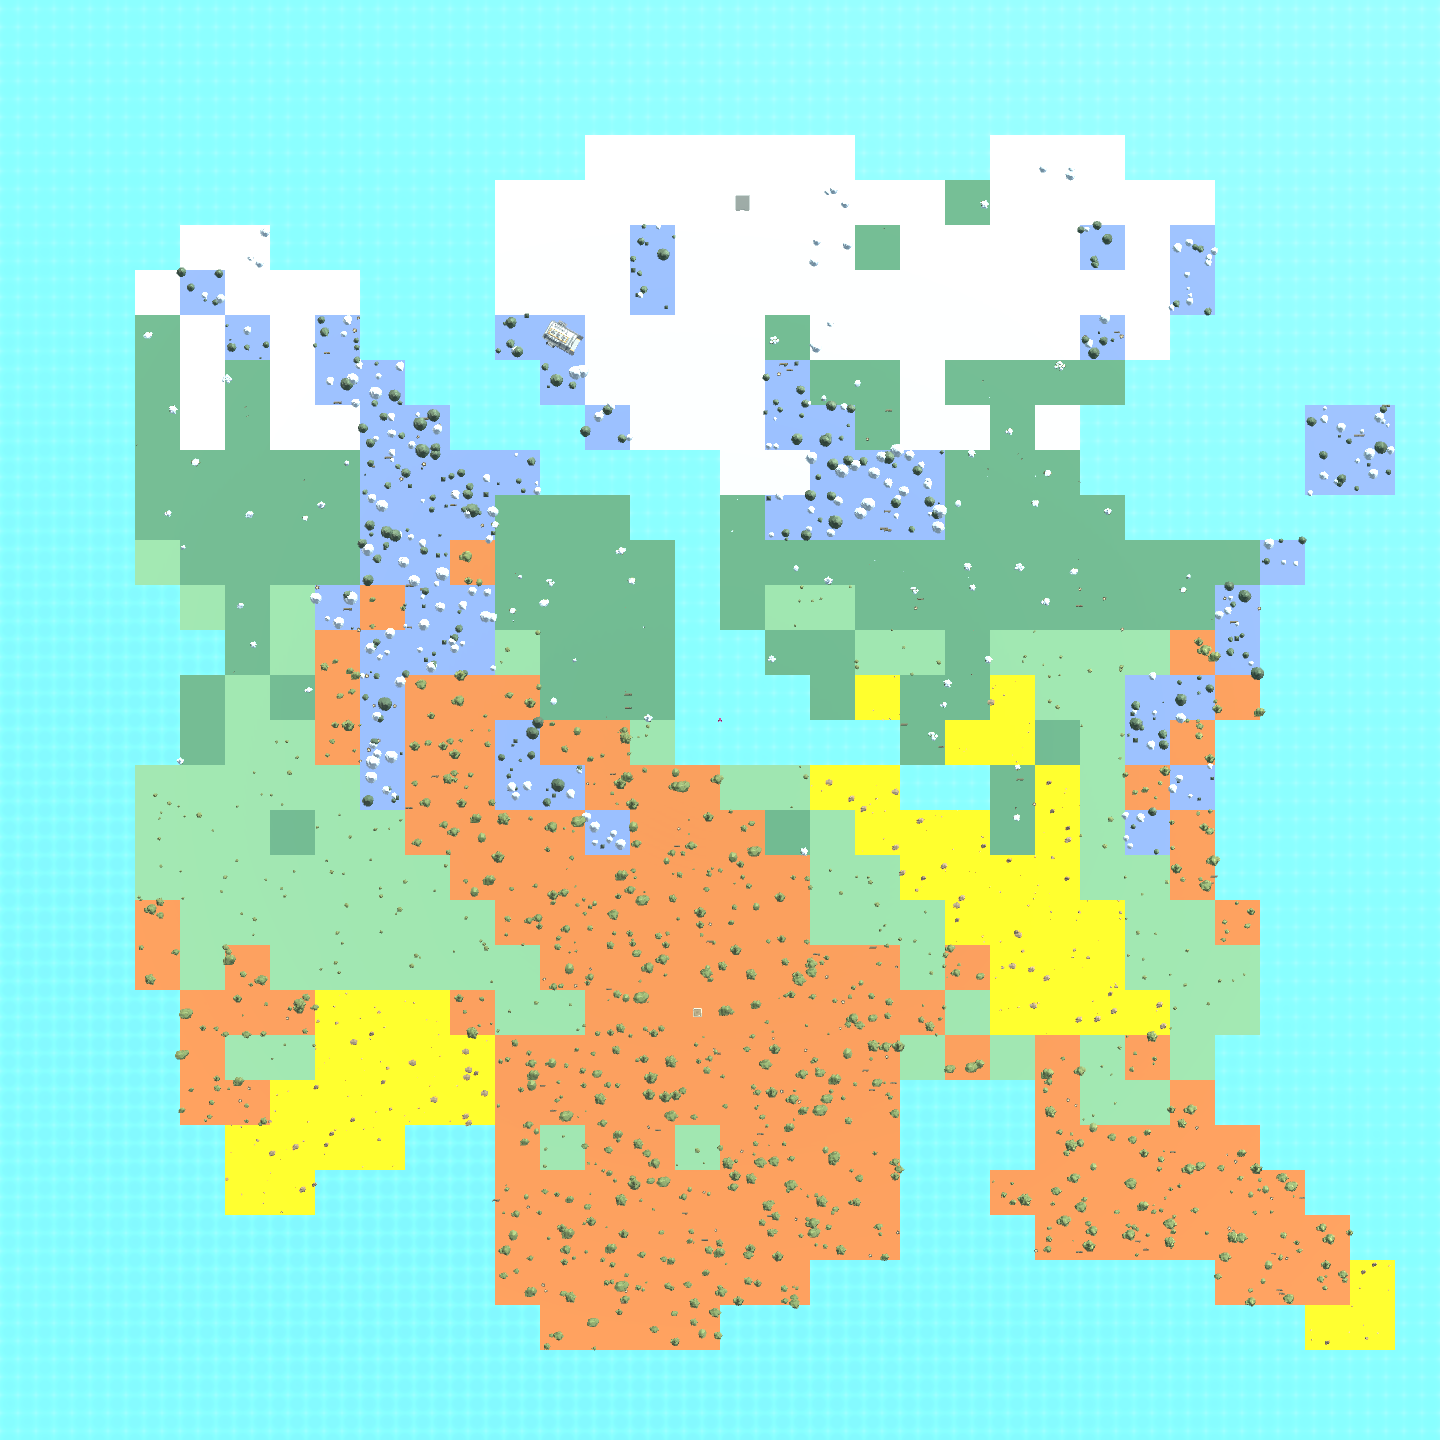
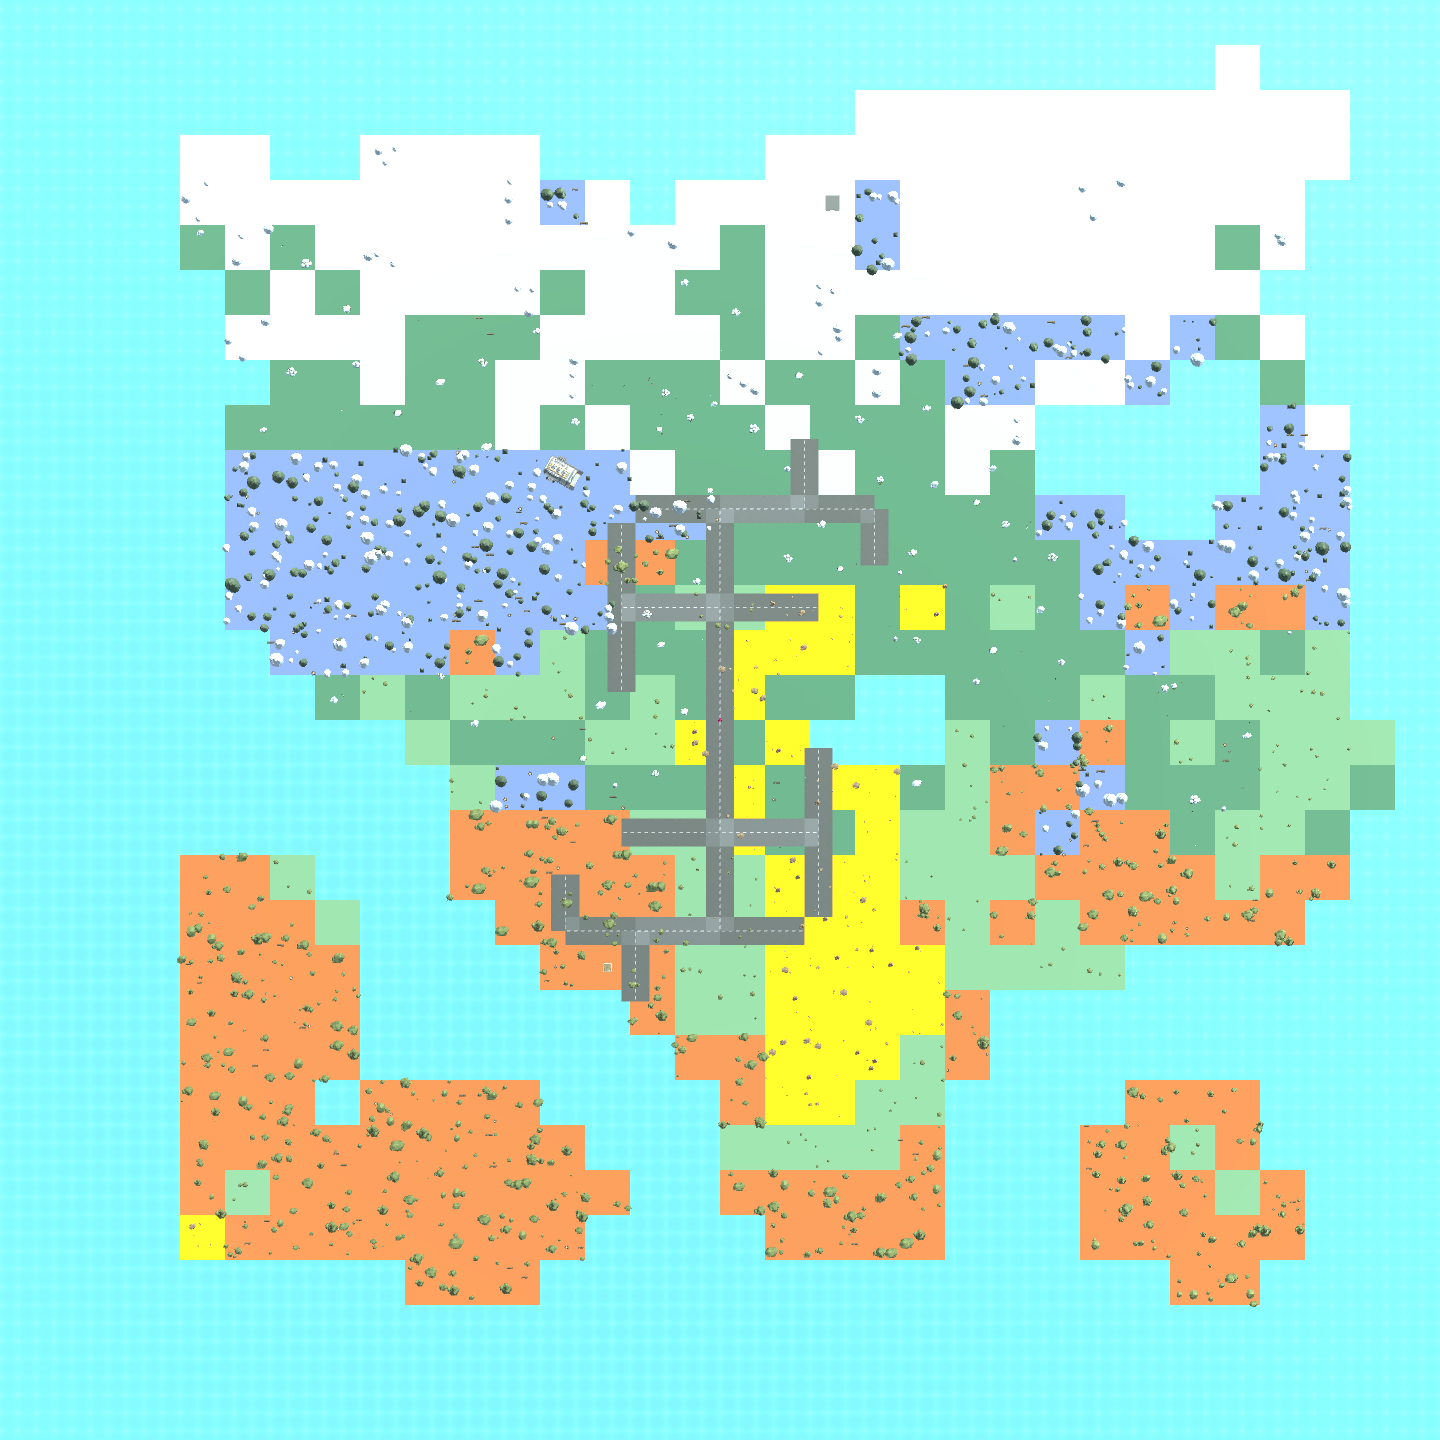
Town Generator (WIP)
L-system

diff --git a/Assets/Scripts/PCG/Generators/POIs/TownGenerator.cs b/Assets/Scripts/PCG/Generators/POIs/TownGenerator.cs
@@ -1,0 +1,79 @@
+using System.Collections.Generic;
+using UnityEngine;
+
+namespace PCG.Generators.POIs
+{
+    public class TownGenerator : MonoBehaviour
+    {
+        public LSystem lSystem;
+        public GameObject roadPrefab;
+        public GameObject buildingPrefab;
+        public int length = 4;
+
+        private void Start()
+        {
+            string sentence = lSystem.GenerateSentence();
+            Debug.Log("sentence: " + sentence);
+            GenerateTown(sentence);
+        }
+
+        private void GenerateTown(string sentence)
+        {
+            Stack<TransformInfo> transformStack = new Stack<TransformInfo>();
+            Vector3 position = new Vector3(0, 0.05f, 0);
+            Quaternion rotation = Quaternion.identity;
+
+            foreach (char c in sentence) {
+                switch (c) {
+                    case 'F':
+                        for (int i = 0; i < length; i++) {
+                            GameObject roadLeft = Instantiate(roadPrefab, position, rotation);
+                            roadLeft.transform.Translate(new Vector3(5, 0, 5));
+                            GameObject roadRight = Instantiate(roadPrefab, position, rotation);
+                            roadRight.transform.Translate(new Vector3(-5, 0, 0));
+                            roadRight.transform.Rotate(new Vector3(0, 180, 0));
+                            position += rotation * Vector3.forward * 5;
+                        }
+                        length -= 1;
+                        break;
+                    case '+':
+                        rotation *= Quaternion.Euler(0, lSystem.angle, 0);
+                        break;
+                    case '-':
+                        rotation *= Quaternion.Euler(0, -lSystem.angle, 0);
+                        break;
+                    case '[':
+                        // Save
+                        transformStack.Push(new TransformInfo {
+                            position = position,
+                            rotation = rotation,
+                            length = length
+                        });
+                        break;
+                    case ']':
+                        // Load
+                        if (transformStack.Count > 0) {
+                            TransformInfo ti = transformStack.Pop();
+                            position = ti.position;
+                            rotation = ti.rotation;
+                            length = ti.length;
+                        }
+                        break;
+                    case 'B':
+                        GameObject building = Instantiate(buildingPrefab);
+                        building.transform.position = position;
+                        break;
+                    default:
+                        break;
+                }
+            }
+        }
+
+        private struct TransformInfo
+        {
+            public Vector3 position;
+            public Quaternion rotation;
+            public int length;
+        }
+    }
+}

diff --git a/Assets/Scripts/PCG/Generators/POIs/LSystem.cs b/Assets/Scripts/PCG/Generators/POIs/LSystem.cs
@@ -1,0 +1,61 @@
+using System;
+using System.Collections.Generic;
+using System.Text;
+using UnityEngine;
+using Random = UnityEngine.Random;
+
+namespace PCG.Generators.POIs
+{
+    [CreateAssetMenu(fileName = "LSystem", menuName = "Procedural Generation/L-System")]
+    public class LSystem : ScriptableObject
+    {
+        public string axiom;
+        public List<Rule> rules;
+        public int iterations;
+        public float angle;
+
+        private Dictionary<char, List<string>> ruleDict;
+
+        private void InitializeRuleDict()
+        {
+            ruleDict = new Dictionary<char, List<string>>();
+            foreach (Rule rule in rules) {
+                ruleDict.Add(rule.symbol, rule.results);
+            }
+        }
+
+        public string GenerateSentence()
+        {
+            InitializeRuleDict();
+            return GenerateSentence(axiom, 0);
+        }
+
+        private string GenerateSentence(string current, int round)
+        {
+            if (round == iterations) {
+                return current;
+            }
+            round++;
+
+            StringBuilder sb = new StringBuilder();
+            foreach (char c in current) {
+                if (ruleDict.ContainsKey(c)) {
+                    List<string> possibleResults = ruleDict[c];
+                    string selectedResult = possibleResults[Random.Range(0, possibleResults.Count)];
+                    sb.Append(selectedResult);
+                } else {
+                    sb.Append(c);
+                }
+            }
+
+            return GenerateSentence(sb.ToString(), round);
+        }
+    }
+
+    [Serializable]
+    public class Rule
+    {
+        public char symbol;
+        public List<string> results;
+    }
+}

diff --git a/Assets/Scripts/PCG/Generators/LevelGenerator.cs b/Assets/Scripts/PCG/Generators/LevelGenerator.cs
@@ -3,13 +3,13 @@ using System.Collections;
 using System.Collections.Generic;
 using Entities.Ocean;
 using Gameplay;
-using PCG.Chunks;
+using PCG.Generators.Chunks;
 using Unity.AI.Navigation;
 using UnityEngine;
 using UnityEngine.Events;
 using Vector3 = UnityEngine.Vector3;
 
-namespace PCG
+namespace PCG.Generators
 {
     [Serializable]
     public class Biome

diff --git a/Assets/Scripts/PCG/Generators/ActorsPlacer.cs b/Assets/Scripts/PCG/Generators/ActorsPlacer.cs
@@ -4,11 +4,11 @@ using Gameplay.Quests;
 using Managers;
 using Managers.GameManager;
 using PCG.BiomeData;
-using PCG.Chunks;
+using PCG.Generators.Chunks;
 using UnityEngine;
 using UnityEngine.AI;
 
-namespace PCG
+namespace PCG.Generators
 {
     public class ActorsPlacer : MonoBehaviour
     {

diff --git a/Assets/Scripts/PCG/Generators/TerrainGenerator.cs b/Assets/Scripts/PCG/Generators/TerrainGenerator.cs
@@ -1,10 +1,10 @@
 using System;
-using PCG.Chunks;
+using PCG.Generators.Chunks;
 using UnityEngine;
 using UnityEngine.Assertions;
 using Random = UnityEngine.Random;
 
-namespace PCG
+namespace PCG.Generators
 {
     public enum BiomeType
     {

diff --git a/Assets/Scripts/Managers/GameManager/GameManager.cs b/Assets/Scripts/Managers/GameManager/GameManager.cs
@@ -6,6 +6,7 @@ using Entities.Ocean;
 using Gameplay.Quests;
 using Managers.Inventory;
 using PCG;
+using PCG.Generators;
 using UnityEngine;
 using UnityEngine.InputSystem;
 using UnityEngine.SceneManagement;

diff --git a/Assets/Scripts/PCG/Generators/Chunks/ChunkGridComponent.cs b/Assets/Scripts/PCG/Generators/Chunks/ChunkGridComponent.cs
@@ -1,6 +1,6 @@
 using UnityEngine;
 
-namespace PCG.Chunks
+namespace PCG.Generators.Chunks
 {
     public class ChunkGridComponent : MonoBehaviour
     {

diff --git a/Assets/Scripts/PCG/Generators/Chunks/Chunk.cs b/Assets/Scripts/PCG/Generators/Chunks/Chunk.cs
@@ -1,6 +1,6 @@
 using UnityEngine;
 
-namespace PCG.Chunks
+namespace PCG.Generators.Chunks
 {
     // 16 * 16 world chunk
     public class Chunk

diff --git a/Assets/Scripts/Gameplay/Quests/Quest.cs b/Assets/Scripts/Gameplay/Quests/Quest.cs
@@ -1,5 +1,6 @@
 using System;
 using PCG;
+using PCG.Generators;
 using UnityEngine;
 using UnityEngine.Events;
 
